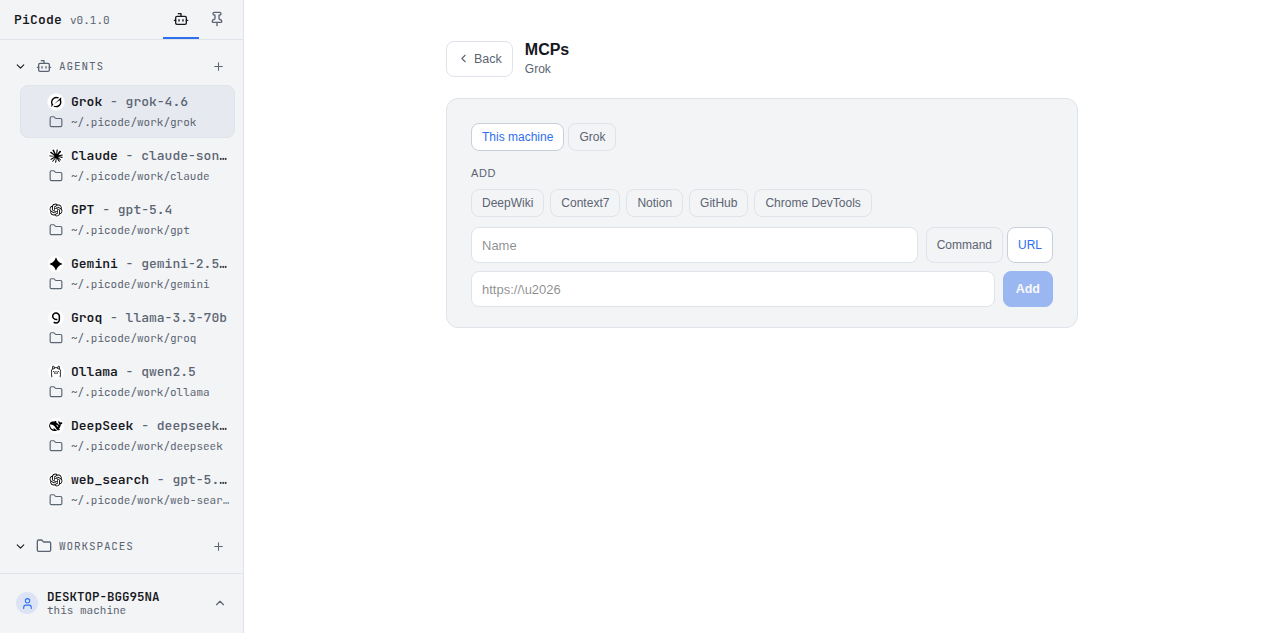
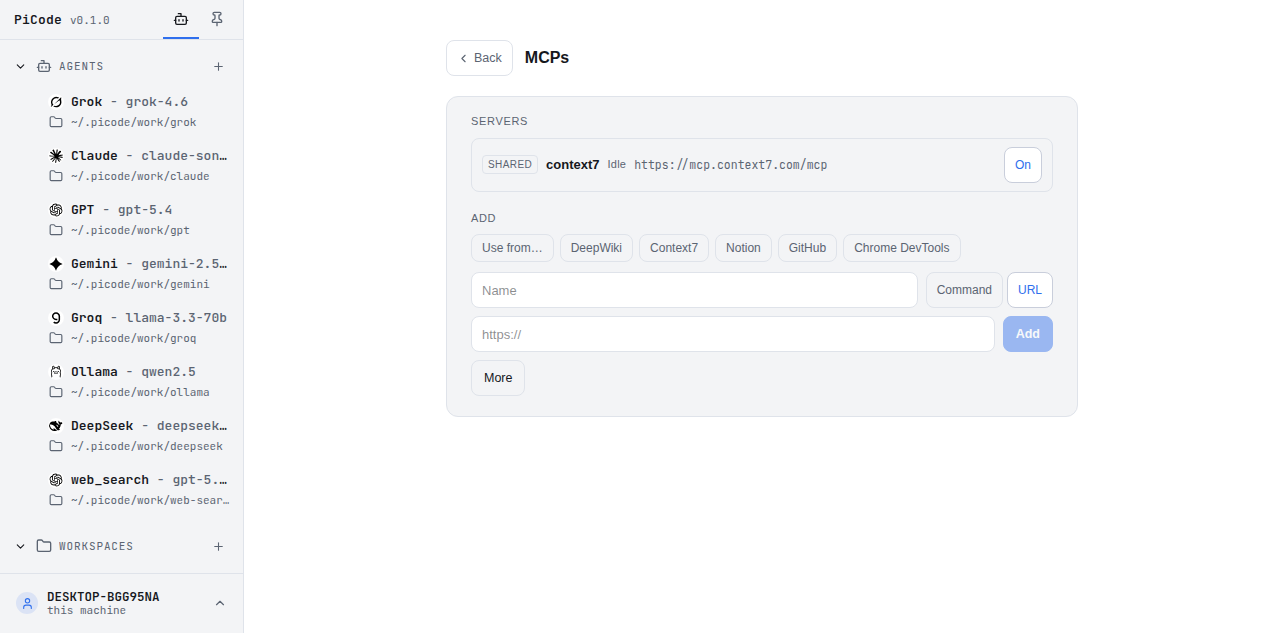
mcp: Use from is the first Add chip
Servers sit at the top (list or No servers yet). Use from… opens the
picker from Add. SHARED on the row replaces Using Claude Code.

diff --git a/web/src/components/Mcps.jsx b/web/src/components/Mcps.jsx
@@ -45,8 +45,6 @@ export default function Mcps({ hidden, workspaceId, workspaceName, workspacePath
   const installed = !!(data && data.adapter && data.adapter.installed);
   const servers = (data && data.servers) || [];
   const presets = (data && data.presets) || [];
-  const imported = (data && data.imports) || [];
-  const mirrored = servers.filter((s) => s.scope === "import");
   const canProject = !!workspaceId;
   const canAgent = !!agentWorkPath;
   const showScopes = canProject || canAgent;
@@ -298,44 +296,9 @@ export default function Mcps({ hidden, workspaceId, workspaceName, workspacePath
         </div>
       ) : (
         <>
-          <div className="mcp-toolbar" data-align-row>
-            <button type="button" className="btn btn-ghost" disabled={!!job} onClick={importHosts}>Use from…</button>
-          </div>
-          {imported.length ? (
-            <p className="pkg-fine">Using {imported.map(hostLabel).join(" · ")}</p>
-          ) : null}
-          {imported.length && !mirrored.length ? (
-            <p className="pkg-fine">No servers in those apps.</p>
-          ) : null}
-          {showScopes ? (
-            <div className="pkg-scope" data-align-row role="radiogroup" aria-label="Where to save">
-              <button type="button" role="radio" className="pkg-scope-btn" aria-checked={scope === "user"} onClick={() => setScope("user")}>This machine</button>
-              {canProject ? (
-                <button
-                  type="button"
-                  role="radio"
-                  className="pkg-scope-btn"
-                  aria-checked={scope === "project"}
-                  title={"Saves in " + (workspaceName || "this folder")}
-                  onClick={() => setScope("project")}
-                >{workspaceName || "This workspace"}</button>
-              ) : null}
-              {canAgent ? (
-                <button
-                  type="button"
-                  role="radio"
-                  className="pkg-scope-btn"
-                  aria-checked={scope === "agent"}
-                  title={"Saves with " + (agentName || "this agent")}
-                  onClick={() => setScope("agent")}
-                >This agent</button>
-              ) : null}
-            </div>
-          ) : null}
-
-          {servers.length > 0 ? (
-            <section className="pkg-installed">
-              <h3>Servers</h3>
+          <section className="pkg-installed">
+            <h3>Servers</h3>
+            {servers.length ? (
               <ul className="mcp-list">
                 {servers.map((s) => {
                   const word = rowLive(s);
@@ -371,25 +334,51 @@ export default function Mcps({ hidden, workspaceId, workspaceName, workspacePath
                   );
                 })}
               </ul>
-            </section>
-          ) : null}
+            ) : (
+              <p className="pkg-fine">No servers yet.</p>
+            )}
+          </section>
 
           <section className="mcp-add">
             <h3>Add</h3>
-            {presets.length ? (
-              <div className="mcp-presets" data-align-row>
-                {presets.map((p) => (
+            {showScopes ? (
+              <div className="pkg-scope" data-align-row role="radiogroup" aria-label="Where to save">
+                <button type="button" role="radio" className="pkg-scope-btn" aria-checked={scope === "user"} onClick={() => setScope("user")}>This machine</button>
+                {canProject ? (
                   <button
-                    key={p.id}
                     type="button"
+                    role="radio"
                     className="pkg-scope-btn"
-                    disabled={!!job}
-                    title={p.summary}
-                    onClick={() => addServer({ name: p.id, ...p.entry })}
-                  >{p.name}</button>
-                ))}
+                    aria-checked={scope === "project"}
+                    title={"Saves in " + (workspaceName || "this folder")}
+                    onClick={() => setScope("project")}
+                  >{workspaceName || "This workspace"}</button>
+                ) : null}
+                {canAgent ? (
+                  <button
+                    type="button"
+                    role="radio"
+                    className="pkg-scope-btn"
+                    aria-checked={scope === "agent"}
+                    title={"Saves with " + (agentName || "this agent")}
+                    onClick={() => setScope("agent")}
+                  >This agent</button>
+                ) : null}
               </div>
             ) : null}
+            <div className="mcp-presets" data-align-row>
+              <button type="button" className="pkg-scope-btn" disabled={!!job} onClick={importHosts}>Use from…</button>
+              {presets.map((p) => (
+                <button
+                  key={p.id}
+                  type="button"
+                  className="pkg-scope-btn"
+                  disabled={!!job}
+                  title={p.summary}
+                  onClick={() => addServer({ name: p.id, ...p.entry })}
+                >{p.name}</button>
+              ))}
+            </div>
             <form className="mcp-form" noValidate onSubmit={(e) => { e.preventDefault(); addServer({}); }}>
               <div className="mcp-form-row" data-align-row>
                 <input className="dlg-input" value={form.name} onChange={(e) => setForm({ ...form, name: e.target.value })} placeholder="Name" aria-label="Server name" disabled={!!job} />
@@ -576,20 +565,6 @@ function TreeCheck({ checked, some, onChange, label }) {
       onChange={(e) => onChange(e.target.checked)}
     />
   );
-}
-
-function hostLabel(id) {
-  const names = {
-    cursor: "Cursor",
-    "claude-code": "Claude Code",
-    "claude-desktop": "Claude Desktop",
-    codex: "Codex",
-    opencode: "OpenCode",
-    windsurf: "Windsurf",
-    vscode: "VS Code",
-    grok: "Grok",
-  };
-  return names[id] || id;
 }
 
 function emptyForm() {

diff --git a/docs/handoff.md b/docs/handoff.md
@@ -48,7 +48,6 @@ Backup V1 shipped (local directory). Remote S3/Drive is later. llama.cpp depth i
 
 ## Known debts / open questions
 
-- MCP dogfood host leftovers removed (Claude/Codex/Grok). Claude keeps `context7`. Notion/Linear keyring entries cleared.
 - MCP GET redacts env/header values (keys only). `bearerToken` stays write-only.
 - MCP **installed + zero servers** Add form is live (`docs/screenshots/mcp-named.png`). Sidebar-on-pane → `#/` checked in browser, not unit-tested.
 - MCP Sign in auto-start after Add/On is UI-only (no unit test). Reuse of a running agent shares `beginAuthOn` with the short-pi tests.
@@ -62,6 +61,7 @@ Backup V1 shipped (local directory). Remote S3/Drive is later. llama.cpp depth i
 ## Recent activity
 
 - **2026-08-27** — Cleared MCP dogfood: `picode-dogfood-*` out of Claude/Codex/Grok; Notion/Linear tokens out of the keyring; `~/.picode/mcp-auth` job files gone. Claude keeps `context7`.
+- **2026-08-27** — MCP layout: Servers (list or “No servers yet.”) then Add with **Use from…** as first chip. Dropped “Using Claude Code”. visual-review: PASS (mcp-named.png, mcp-use-from.png, overlayAudit ok).
 - **2026-08-27** — Signed-in rows do not also say “Signed in”; **Sign out** is the state. visual-review: PASS (mcp-signout.png).
 - **2026-08-27** — MCP **Sign out** forgets the keyring login (Off does not). Linux secret-tool. visual-review: PASS (mcp-signout.png, mcp-signout-confirm.png, overlayAudit ok).
 - **2026-08-27** — After Sign in the toast fired but the row still said Sign in: overlay ends on callback before keyring write, and Idle list does not poll without a running agent. Optimistic **Signed in** + retry load. visual-review: PASS (mcp-linear-signed.png).

diff --git a/www/guide/mcp.md b/www/guide/mcp.md
@@ -6,7 +6,7 @@ Canonical: [pi-mcp-adapter](https://github.com/mariozechner/pi-mcp) (install as 
 
 1. `#/packages` → This machine → install `npm:pi-mcp-adapter`.
 2. `#/mcps` → Add a server (command or URL). **More** adds environment variables, headers, or sign-in (OAuth / token).
-3. **Use from…** is a tree of apps and their servers. Check the ones to use. It does not copy files.
+3. **Use from…** is the first chip under Add. It opens a tree of apps and their servers. Check the ones to use. It does not copy files. Shared servers show SHARED in the list.
 4. The list says **Idle** until an agent uses the server, then **Live** (or **Failed**). A login on this machine has **Sign out** instead of Sign in.
 5. **Sign in** opens the server's login page as soon as you Add or turn it On (hidden once you are signed in). Approve there — the tab returns to PiCode on its own, same as Claude/Codex. You do not need to run an agent first. One login is reused by every agent on this machine. **Sign out** forgets that login on this machine.
 

diff --git a/CHANGELOG.md b/CHANGELOG.md
@@ -14,6 +14,7 @@ to the `[Unreleased]` section. The repository's official language is English
 ### Changed
 
 - MCP **Sign in** no longer needs the agent running. Add or On on an OAuth server starts Sign in. One login is shared by every agent on this machine.
+- MCP **Use from…** sits with Add (first chip). The card no longer says which app is mirrored — each row already has SHARED. An empty server list is one line: No servers yet.
 - MCP **Sign in** is automatic like Claude/Codex: PiCode opens one tab, approve, overlay ends when the callback lands (token save continues in the background). The row swaps Sign in for **Sign out** (no extra “Signed in” label). No paste. Add still saves the server if that login cannot run (GitHub Copilot has no dynamic client registration). Sign in forces a localhost callback so Linear does not dump you on linear.app.
 - MCP list API keeps env/header **keys** and hides values (token was already write-only).
 - MCP server list is alphabetical by name (no more jumping while live status refreshes).
